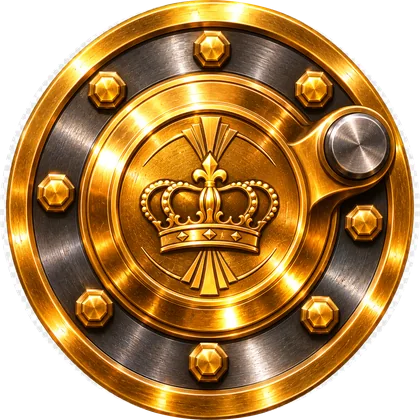
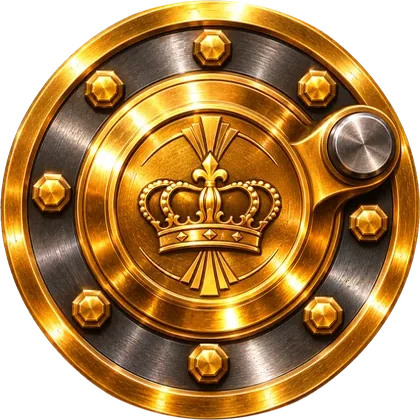
Baron Express : glissière et crosse, moyeu sans liseré, rails sur toute la largeur
La bielle tient maintenant une crosse qui coulisse dans une vraie glissière.
Le moyeu perd son liseré clair, et les rails (une tuile sans couture) passent
sous toute la largeur de la scène.

Claude-Session: https://claude.ai/code/session_01Vs3Q35NuqGK4HWxeJkBpbC

diff --git a/CasinoBaronWheel.tsx b/CasinoBaronWheel.tsx
@@ -132,14 +132,16 @@ interface HorlogesRoue {
 
 /**
  * La roue motrice (Le Baron Express) : le moyeu tourne avec le disque ; son maneton entraîne la bielle, dont l'autre
- * bout glisse sur la glissière horizontale (à droite du moyeu). Les mesures sont en part de la largeur de la roue.
+ * bout tient la crosse, qui coulisse dans la glissière horizontale (à droite du moyeu). Les mesures sont en part de la largeur de la roue.
  */
 const MOTRICE = {
   /** Le maneton : sa distance au centre, son angle (degrés, sens horaire depuis la droite) quand la roue est à 0. */
   maneton: 0.099,
   angle: -23.3,
   /** La bielle : d'un œil à l'autre ; l'image (900 × 218) a ses œils à 94 et 834 px. */
-  bielle: 0.36,
+  bielle: 0.3,
+  /** La crosse (au bout de la bielle) : sa largeur ; elle coulisse dans la glissière. */
+  crosse: 0.14,
   oeil: 94 / 900,
   /** Une bouffée de vapeur par demi-tour de roue. */
   bouffee: 180,
@@ -150,6 +152,7 @@ function Roue({ v, horloges }: { v: VueBW; horloges: MutableRefObject<HorlogesRo
   const disque = useRef<HTMLDivElement>(null);
   const roue = useRef<HTMLDivElement>(null);
   const bielle = useRef<HTMLImageElement>(null);
+  const crosse = useRef<HTMLImageElement>(null);
   const bouffees = useRef<(HTMLImageElement | null)[]>([]);
   const gagnante = v.phase === 'bonus' || v.phase === 'resultat' ? v.arret : null;
   const boosts = v.multiplicateurs ?? [];
@@ -187,6 +190,12 @@ function Roue({ v, horloges }: { v: VueBW; horloges: MutableRefObject<HorlogesRo
         const lb = (L * 900) / 740;
         b.style.width = `${lb}px`;
         b.style.transform = `translate3d(${px - MOTRICE.oeil * lb}px, ${py - (lb * 218) / 900 / 2}px, 0) rotate(${phi}rad)`;
+        const c = crosse.current;
+        if (c) {
+          const cw = MOTRICE.crosse * W;
+          c.style.width = `${cw}px`;
+          c.style.transform = `translate3d(${qx - cw / 2}px, ${W / 2 - (cw * 135) / 300 / 2}px, 0)`;
+        }
       }
       // La vapeur : une bouffée par demi-tour pendant le tour, de plus en plus espacées.
       const t = performance.now();
@@ -258,7 +267,7 @@ function Roue({ v, horloges }: { v: VueBW; horloges: MutableRefObject<HorlogesRo
   return (
     <div className={`bw-roue ${v.phase}`} ref={roue}>
       <div className="bw-roue-halo" aria-hidden="true" />
-      <img className="bw-rl-rails" src="/cartes/bw-rl-rails.webp" alt="" draggable={false} />
+      <i className="bw-rl-rails" aria-hidden="true" />
       <div className="bw-disque" ref={disque}>
         <svg viewBox="-370 -370 740 740" aria-hidden="true">
           <circle r="366" fill="#1a0f08" />
@@ -290,7 +299,8 @@ function Roue({ v, horloges }: { v: VueBW; horloges: MutableRefObject<HorlogesRo
         <img className="bw-rl-moyeu" src="/cartes/bw-rl-moyeu.webp" alt="" draggable={false} />
       </div>
       <img className="bw-rl-jante" src="/cartes/bw-rl-jante.webp" alt="" draggable={false} />
-      <i className="bw-rl-glissiere" aria-hidden="true" />
+      <img className="bw-rl-glissiere" src="/cartes/bw-rl-glissiere.webp" alt="" draggable={false} />
+      <img className="bw-rl-crosse" ref={crosse} src="/cartes/bw-rl-crosse.webp" alt="" draggable={false} />
       <img className="bw-rl-bielle" ref={bielle} src="/cartes/bw-rl-bielle.webp" alt="" draggable={false} />
       {Array.from({ length: NB_BOUFFEES }, (_, k) => (
         <img

diff --git a/baronWheel.css b/baronWheel.css
@@ -63,11 +63,12 @@
 @keyframes bw-gagnante { to { fill: rgba(255, 245, 210, 0.45); } }
 .bw-rl-jante { position: absolute; inset: 0; z-index: 2; width: 100%; height: 100%; max-width: none; pointer-events: none; filter: drop-shadow(0 10px 18px rgba(0, 0, 0, 0.65)); }
 .bw-rl-moyeu { position: absolute; left: 33.4%; top: 33.4%; width: 33.2%; height: auto; max-width: none; pointer-events: none; filter: drop-shadow(0 6px 12px rgba(0, 0, 0, 0.6)); }
-.bw-rl-rails { position: absolute; left: -6%; top: 93.5%; z-index: 0; width: 112%; height: auto; max-width: none; pointer-events: none; filter: drop-shadow(0 8px 10px rgba(0, 0, 0, 0.6)); }
-.bw-rl-glissiere { position: absolute; left: 73%; top: 48.2%; z-index: 3; width: 25.5%; height: 3.6%; border-radius: 4px; background: linear-gradient(180deg, #f6d98a, #b9862f 45%, #6b4716 55%, #c99a42); box-shadow: 0 3px 6px rgba(0, 0, 0, 0.6), inset 0 0 0 1px rgba(60, 30, 4, 0.6); pointer-events: none; }
-.bw-rl-bielle { position: absolute; left: 0; top: 0; z-index: 4; height: auto; max-width: none; pointer-events: none; transform-origin: 10.44% 50%; will-change: transform; filter: drop-shadow(0 6px 8px rgba(0, 0, 0, 0.65)); }
-.bw-rl-vapeur { position: absolute; left: 0; top: 0; z-index: 5; width: 10%; height: auto; max-width: none; opacity: 0; pointer-events: none; will-change: transform, opacity; }
-.bw-aiguille { position: absolute; left: 47.3%; top: -6%; width: 5.4%; height: auto; max-width: none; z-index: 6; pointer-events: none; filter: drop-shadow(0 6px 8px rgba(0, 0, 0, 0.7)); transform-origin: 50% 8%; }
+.bw-rl-rails { position: absolute; left: -150%; top: 93.5%; z-index: 0; width: 400%; height: 27.8%; background: url('/cartes/bw-rl-rails.webp') 50% 0 / 11.35% auto repeat-x; pointer-events: none; filter: drop-shadow(0 8px 10px rgba(0, 0, 0, 0.6)); }
+.bw-rl-glissiere { position: absolute; left: 53.5%; top: 50%; z-index: 3; width: 52%; height: auto; max-width: none; transform: translateY(-50%); pointer-events: none; filter: drop-shadow(0 4px 6px rgba(0, 0, 0, 0.6)); }
+.bw-rl-crosse { position: absolute; left: 0; top: 0; z-index: 4; height: auto; max-width: none; pointer-events: none; will-change: transform; filter: drop-shadow(0 3px 5px rgba(0, 0, 0, 0.6)); }
+.bw-rl-bielle { position: absolute; left: 0; top: 0; z-index: 5; height: auto; max-width: none; pointer-events: none; transform-origin: 10.44% 50%; will-change: transform; filter: drop-shadow(0 6px 8px rgba(0, 0, 0, 0.65)); }
+.bw-rl-vapeur { position: absolute; left: 0; top: 0; z-index: 6; width: 10%; height: auto; max-width: none; opacity: 0; pointer-events: none; will-change: transform, opacity; }
+.bw-aiguille { position: absolute; left: 47.3%; top: -6%; width: 5.4%; height: auto; max-width: none; z-index: 7; pointer-events: none; filter: drop-shadow(0 6px 8px rgba(0, 0, 0, 0.7)); transform-origin: 50% 8%; }
 .bw-roue.tour .bw-aiguille { animation: bw-aiguille 0.09s ease-in-out infinite alternate; }
 @keyframes bw-aiguille { to { transform: rotate(-3deg); } }
 @media (max-width: 699px) { .bw-plateau { background-image: url('/cartes/bw-rl-decor-portrait.webp'); } }

diff --git a/ressourcesJeux.ts b/ressourcesJeux.ts
@@ -357,6 +357,8 @@ export const RESSOURCES_JEUX: Record<JeuACharger, string[]> = {
     '/cartes/bw-rl-bielle.webp',
     '/cartes/bw-rl-sifflet.webp',
     '/cartes/bw-rl-rails.webp',
+    '/cartes/bw-rl-glissiere.webp',
+    '/cartes/bw-rl-crosse.webp',
     '/cartes/bw-rl-vapeur.webp',
     '/cartes/bw-rl-decor-paysage.webp',
     '/cartes/bw-rl-decor-portrait.webp',

diff --git a/ressourcesCasino.ts b/ressourcesCasino.ts
@@ -229,6 +229,8 @@ export const IMAGES_JEUX = [
   '/cartes/bw-rl-bielle.webp',
   '/cartes/bw-rl-sifflet.webp',
   '/cartes/bw-rl-rails.webp',
+  '/cartes/bw-rl-glissiere.webp',
+  '/cartes/bw-rl-crosse.webp',
   '/cartes/bw-rl-vapeur.webp',
   '/cartes/bw-rl-decor-paysage.webp',
   '/cartes/bw-rl-decor-portrait.webp',
